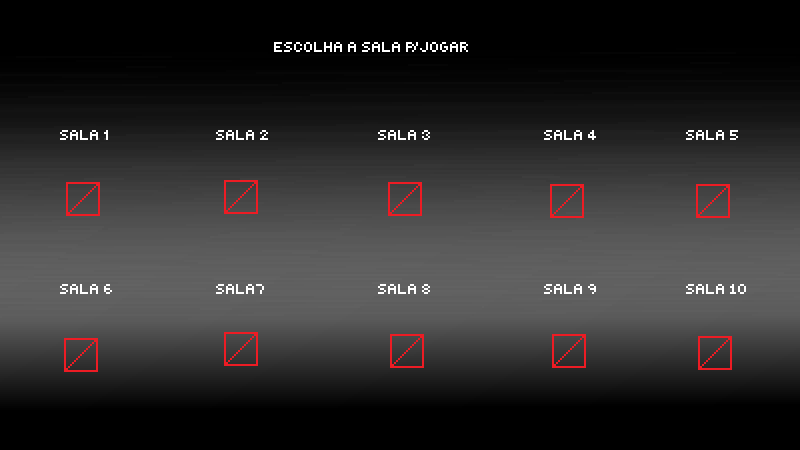
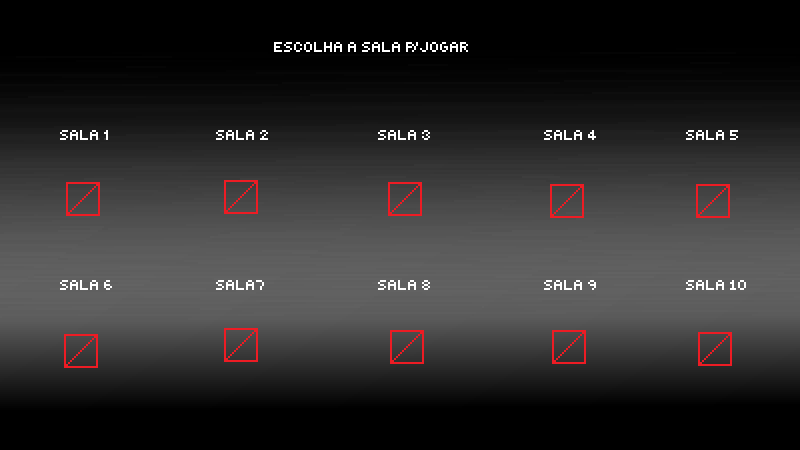
Reposicionamento das portas na tela_salas.js

diff --git a/cliente/js/tela_sala.js b/cliente/js/tela_sala.js
@@ -21,50 +21,51 @@ export default class tela_sala extends Phaser.Scene {
         x: 84,
         y: 210
       },
-      {
-        numero: '1',
-        x: 150,
-        y: 175
-      },
+      
       {
         numero: '2',
-        x: 150,
-        y: 225
+        x: 242,
+        y: 210
       },
       {
         numero: '3',
-        x: 150,
-        y: 275
+        x: 406,
+        y: 210
       },
       {
         numero: '4',
-        x: 150,
-        y: 325
+        x: 568,
+        y: 210
       },
       {
         numero: '5',
-        x: 450,
-        y: 125
+        x: 714,
+        y: 210
       },
       {
         numero: '6',
-        x: 450,
-        y: 175
+        x: 84,
+        y: 354
       },
       {
         numero: '7',
-        x: 450,
-        y: 225
+        x: 242,
+        y: 354
       },
       {
         numero: '8',
-        x: 450,
-        y: 275
+        x: 406,
+        y: 354
       },
       {
         numero: '9',
-        x: 450,
-        y: 325
+        x: 568,
+        y: 354
+      },
+      {
+        numero: '10',
+        x: 714,
+        y: 354
       }
     ]
 
@@ -98,7 +99,7 @@ export default class tela_sala extends Phaser.Scene {
     if (this.timer <= 0) {
       this.timedEvent.destroy()
       this.game.scene.stop('tela_sala')
-      this.game.scene.start('abc')
+      this.game.scene.start('sala_s1')
     }
   }
 

diff --git a/cliente/js/sala_s1.js b/cliente/js/sala_s1.js
@@ -1,0 +1,18 @@
+export default class abertura_jogo extends Phaser.Scene {
+
+  constructor () {
+    super('abertura_jogo')
+  }
+
+  preload () {
+    this.load.image('parede_s1', '../assets/imagens/background1.png')
+  }
+
+  /* add image(400,225, ...) por ser pela metade, começa pelo meio */
+  create () {
+    this.add.image(400, 225, 'parede_s1')
+  }
+
+  update () { }
+
+}
